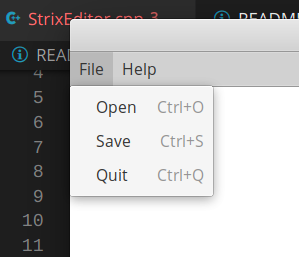
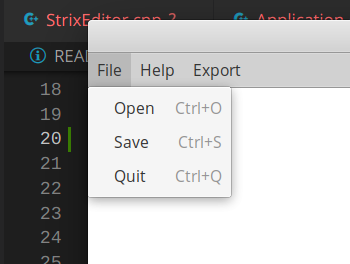
Update Screenshots

diff --git a/README.md b/README.md
@@ -10,12 +10,14 @@ This project was done to understand the basics of wxWidgets : The Cross Platform
 <li>Open .txt files</li>
 <li>Exit the Application</li>
 <li>Show the Developer Information</li>
+<li>Export the written content as PDF, SVG or PostScript</li>
 </ol>
 
 ## Menus Available
 <ol>
 <li>File</li>
 <li>About</li>
+<li>Export</li>
 </ol>
 
 ## How does it look?
@@ -27,7 +29,7 @@ This project was done to understand the basics of wxWidgets : The Cross Platform
 
 #### Menu
 <br>
-<img height = 400 width = 1000 src = "./screenshots/menu.png">
+<img height = 300 width = 400 src = "./screenshots/menu.png">
 </br>
 
 #### About
